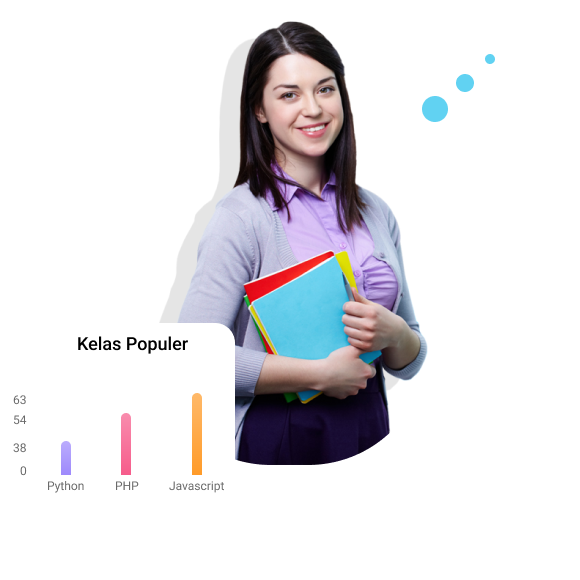
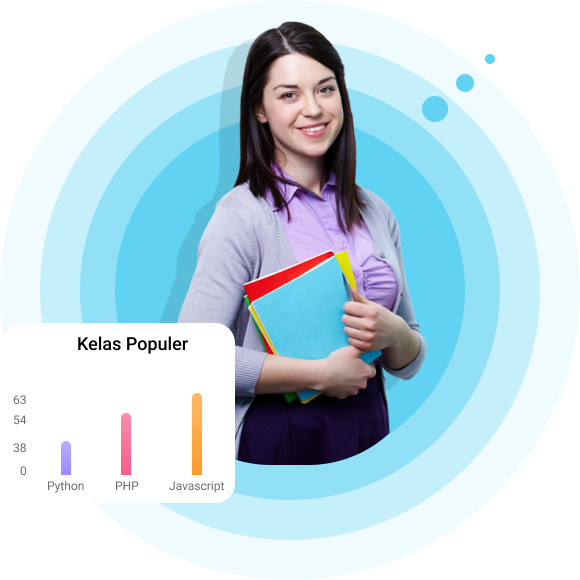
feat: Menambahkan loading effect ketika fetching data

diff --git a/Frontend/src/routes/dashboard/siswa/Siswa.js b/Frontend/src/routes/dashboard/siswa/Siswa.js
@@ -15,60 +15,13 @@ import {
   Icon,
   Stack,
 } from "@chakra-ui/react";
-import { useEffect } from "react";
+import { useEffect, useState, useCallback } from "react";
 import { StarIcon, SearchIcon } from "@chakra-ui/icons";
 import { FaChalkboardTeacher, FaDollarSign } from "react-icons/fa";
 import { Link as LinkTo } from "react-router-dom";
 import { MENTOR } from "../../../api/API";
 import useSiswa from "../../../zustand/todoSiswa";
-
-export default function Siswa() {
-  const { mentor, setMentor } = useSiswa();
-
-  useEffect(() => {
-    setMentor(MENTOR);
-  }, [setMentor]);
-
-  return (
-    <Stack pt={"4"}>
-      <Container maxW={"7xl"}>
-        <InputGroup>
-          <InputLeftElement
-            pointerEvents="none"
-            children={<SearchIcon color="gray.300" />}
-          />
-          <Input
-            type="text"
-            placeholder="Cari Mentor"
-            focusBorderColor={useColorModeValue(
-              "accentLight.400",
-              "accentDark.400"
-            )}
-            shadow={"md"}
-            _focus={{
-              shadow: "md",
-            }}
-          />
-        </InputGroup>
-        <SimpleGrid
-          columns={{ base: 1, md: 2, lg: 3 }}
-          spacing={5}
-          my={5}
-          w={"full"}
-          justifyContent={"center"}
-          autoRows={"1fr"}
-          autoColumns={"1fr"}
-        >
-          {mentor.map((item) =>
-            item.kursus.map((kursus, index) => (
-              <CardMentor key={index} {...item} kursus={kursus} />
-            ))
-          )}
-        </SimpleGrid>
-      </Container>
-    </Stack>
-  );
-}
+import LoadingFetchEffect from "../../../components/LoadingFetchEffect";
 
 function CardMentor(props) {
   return (
@@ -93,7 +46,9 @@ function CardMentor(props) {
 
       <Box p="3">
         <Heading fontSize="2xl">{props.nama}</Heading>
-        <Heading fontSize="lg">{props.kursus.nama} - {props.kursus.modul}</Heading>
+        <Heading fontSize="lg">
+          {props.kursus.nama} - {props.kursus.modul}
+        </Heading>
         <Heading fontSize="md">{props.kota}</Heading>
         <HStack spacing={"1"}>
           <StarIcon
@@ -120,6 +75,59 @@ function CardMentor(props) {
           </Tag>
         </HStack>
       </Box>
+    </Stack>
+  );
+}
+
+export default function Siswa() {
+  const [isLoading, setLoading] = useState(true);
+  const { mentor, setMentor } = useSiswa();
+
+  const getMentor = useCallback(() => {
+    setLoading(true);
+    setMentor(MENTOR).finally(() => setLoading(false));
+  }, [setMentor]);
+
+  useEffect(() => {
+    getMentor();
+  }, [getMentor]);
+
+  const searchstyle = {
+    focusBorderColor: useColorModeValue("accentLight.400", "accentDark.400"),
+  };
+
+  return isLoading ? (
+    <LoadingFetchEffect />
+  ) : (
+    <Stack pt={"4"}>
+      <Container maxW={"7xl"}>
+        <InputGroup>
+          <InputLeftElement
+            pointerEvents="none"
+            children={<SearchIcon color="gray.300" />}
+          />
+          <Input
+            type="text"
+            placeholder="Cari Mentor"
+            {...searchstyle}
+          />
+        </InputGroup>
+        <SimpleGrid
+          columns={{ base: 1, md: 2, lg: 3 }}
+          spacing={5}
+          my={5}
+          w={"full"}
+          justifyContent={"center"}
+          autoRows={"1fr"}
+          autoColumns={"1fr"}
+        >
+          {mentor.map((item) =>
+            item.kursus.map((kursus, index) => (
+              <CardMentor key={index} {...item} kursus={kursus} />
+            ))
+          )}
+        </SimpleGrid>
+      </Container>
     </Stack>
   );
 }

diff --git a/Frontend/src/components/LoadingFetchEffect.js b/Frontend/src/components/LoadingFetchEffect.js
@@ -1,0 +1,96 @@
+import styled from "styled-components";
+import { Stack } from "@chakra-ui/react";
+
+const SwappingSquare = styled.div`
+  height: ${(props) => props.size}px;
+  width: ${(props) => props.size}px;
+  position: relative;
+  display: flex;
+  flex-direction: row;
+  justify-content: center;
+  align-items: center;
+  * {
+    box-sizing: border-box;
+  }
+  .square {
+    height: calc(${(props) => props.size}px * 0.25 / 1.3);
+    width: calc(${(props) => props.size}px * 0.25 / 1.3);
+    animation-duration: ${(props) => props.animationDuration}ms;
+    border: calc(${(props) => props.size}px * 0.04 / 1.3) solid
+      ${(props) => props.color};
+    margin-right: auto;
+    margin-left: auto;
+    position: absolute;
+    animation-iteration-count: infinite;
+  }
+  .square:nth-child(1) {
+    animation-name: swapping-squares-animation-child-1;
+    animation-delay: ${(props) => props.animationDuration * 0.5}ms;
+  }
+  .square:nth-child(2) {
+    animation-name: swapping-squares-animation-child-2;
+    animation-delay: 0ms;
+  }
+  .square:nth-child(3) {
+    animation-name: swapping-squares-animation-child-3;
+    animation-delay: ${(props) => props.animationDuration * 0.5}ms;
+  }
+  .square:nth-child(4) {
+    animation-name: swapping-squares-animation-child-4;
+    animation-delay: 0ms;
+  }
+  @keyframes swapping-squares-animation-child-1 {
+    50% {
+      transform: translate(150%, 150%) scale(2, 2);
+    }
+  }
+  @keyframes swapping-squares-animation-child-2 {
+    50% {
+      transform: translate(-150%, 150%) scale(2, 2);
+    }
+  }
+  @keyframes swapping-squares-animation-child-3 {
+    50% {
+      transform: translate(-150%, -150%) scale(2, 2);
+    }
+  }
+  @keyframes swapping-squares-animation-child-4 {
+    50% {
+      transform: translate(150%, -150%) scale(2, 2);
+    }
+  }
+`;
+
+function generateSpinners(num) {
+  return Array.from({ length: num }).map((val, index) => (
+    <div key={index} className="square" />
+  ));
+}
+
+const LoadingAnim = ({
+  size = 50,
+  color = "teal",
+  animationDuration = 1000,
+  className = "",
+  style,
+  ...props
+}) => (
+  <SwappingSquare
+    size={size}
+    color={color}
+    animationDuration={animationDuration}
+    className={`swapping-squares-spinner${className ? " " + className : ""}`}
+    style={style}
+    {...props}
+  >
+    {generateSpinners(4)}
+  </SwappingSquare>
+);
+
+export default function Loading() {
+  return (
+    <Stack textAlign="center" align="center" justify="center">
+      <LoadingAnim />
+    </Stack>
+  );
+}

diff --git a/Frontend/src/routes/dashboard/siswa/DetailMentor.js b/Frontend/src/routes/dashboard/siswa/DetailMentor.js
@@ -28,9 +28,12 @@ import { useParams } from "react-router-dom";
 import axios from "axios";
 import { useState, useEffect, useCallback } from "react";
 import { MENTOR, KURSUS, SISWA } from "../../../api/API";
+import LoadingFetchEffect from "../../../components/LoadingFetchEffect";
 
 export default function DetailMentor() {
   const param = useParams();
+  const [isLoading, setLoading] = useState(true);
+
   const [mentor, setMentor] = useState([]);
   const [kursus, setKursus] = useState([]);
   const [siswa, setSiswa] = useState([]);
@@ -51,7 +54,8 @@ export default function DetailMentor() {
   }, [param.mentorId, param.kursusId]);
 
   useEffect(() => {
-    getKursusInfo();
+    setLoading(true);
+    getKursusInfo().finally(() => setLoading(false));
   }, [getKursusInfo]);
 
   const Komen = (props) => {
@@ -120,7 +124,24 @@ export default function DetailMentor() {
       </Stack>
     );
   };
-  return (
+
+  const stylestaricon = {
+    color: useColorModeValue("accentLight.500", "accentDark.500"),
+  };
+
+  const stylebutton = {
+    color: useColorModeValue("white", "black"),
+    bg: useColorModeValue("accentLight.400", "accentDark.400"),
+    _hover: {
+      bg: useColorModeValue("accentLight.500", "accentDark.500"),
+      transform: "translateY(2px)",
+      boxShadow: "lg",
+    },
+  };
+
+  return isLoading ? (
+    <LoadingFetchEffect />
+  ) : (
     <Container maxW={"7xl"} pt={4}>
       <Stack
         spacing={{ base: 8, md: 10 }}
@@ -141,9 +162,7 @@ export default function DetailMentor() {
 
           <Box direction={"column"}>
             <HStack spacing={"1"}>
-              <StarIcon
-                color={useColorModeValue("accentLight.500", "accentDark.500")}
-              />
+              <StarIcon {...stylestaricon} />
               <Text fontSize="sm" fontWeight={"bold"}>
                 4.6
               </Text>
@@ -212,13 +231,7 @@ export default function DetailMentor() {
             w={"full"}
             size={"lg"}
             py={"3"}
-            color={useColorModeValue("white", "black")}
-            bg={useColorModeValue("accentLight.400", "accentDark.400")}
-            _hover={{
-              bg: useColorModeValue("accentLight.500", "accentDark.500"),
-              transform: "translateY(2px)",
-              boxShadow: "lg",
-            }}
+            {...stylebutton}
           >
             Reservasi
           </Button>

diff --git a/Frontend/src/routes/dashboard/admin/Admin.js b/Frontend/src/routes/dashboard/admin/Admin.js
@@ -20,22 +20,25 @@ import {
 } from "@chakra-ui/react";
 import { AiTwotoneLock } from "react-icons/ai";
 import { BsFillTrashFill } from "react-icons/bs";
-import { useEffect } from "react";
+import { useState, useEffect } from "react";
 import { ADMIN, MENTOR, SISWA } from "../../../api/API";
 import useAdmin from "../../../zustand/todoAdmin";
+import LoadingFetchEffect from "../../../components/LoadingFetchEffect";
 
 export default function Admin() {
+  const [isLoading, setLoading] = useState(true);
+
   const { admin, mentor, siswa, setAdmin, setMentor, setSiswa, remove } =
     useAdmin();
 
-  const getData = (data, setData) => {
-    setData(data);
-  };
-
   useEffect(() => {
-    getData(ADMIN, setAdmin);
-    getData(MENTOR, setMentor);
-    getData(SISWA, setSiswa);
+    setLoading(true);
+    setAdmin(ADMIN)
+      .then(() => {
+        setMentor(MENTOR).then(() => {
+          setSiswa(SISWA).finally(() => setLoading(false));
+        });
+      })
   }, [setAdmin, setMentor, setSiswa]);
 
   const textColor = useColorModeValue("accentLight.400", "accentDark.400");
@@ -189,7 +192,9 @@ export default function Admin() {
     );
   };
 
-  return (
+  return isLoading ? (
+    <LoadingFetchEffect />
+  ) : (
     <Container maxWidth="7xl" pt={4}>
       <Tabs isFitted variant="enclosed">
         <TabList mb="1em">

diff --git a/Frontend/src/routes/homepage/components/Hero.js b/Frontend/src/routes/homepage/components/Hero.js
@@ -86,17 +86,6 @@ export default function Hero() {
         justify={"center"}
         order={{ base: 1, md: 2 }}
       >
-        <Box
-          position={"absolute"}
-          w={{ base: "270px", md: "350px" }}
-          h={{ base: "270px", md: "350px" }}
-          rounded={"full"}
-          bg={"#61D2F2"}
-          boxShadow={
-            "0 0 0 40px rgba(97, 210, 242, 0.5), 0 0 0 70px rgba(97, 210, 242, 0.3), 0 0 0 100px rgba(97, 210, 242, 0.1)"
-          }
-          zIndex={1}
-        />
         <Image
           alt={"Login Image"}
           objectFit={"cover"}
